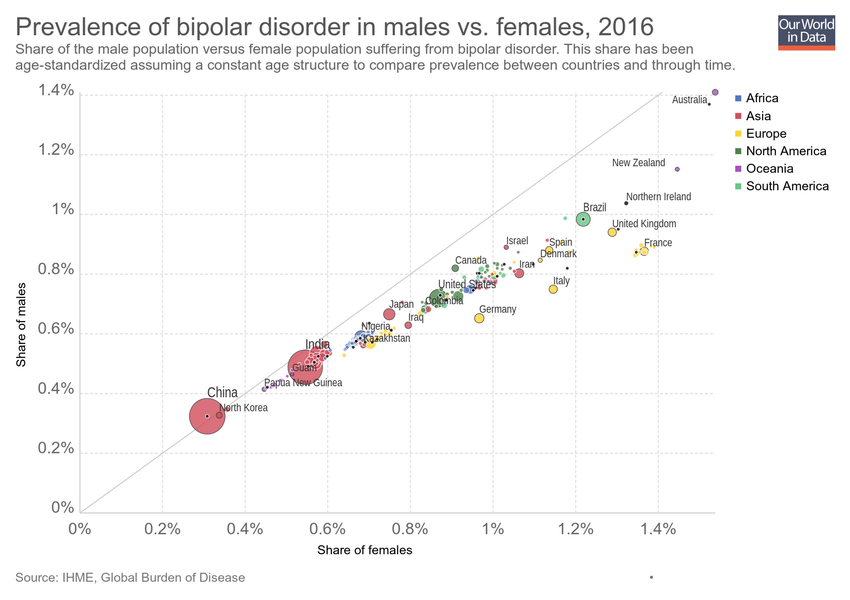
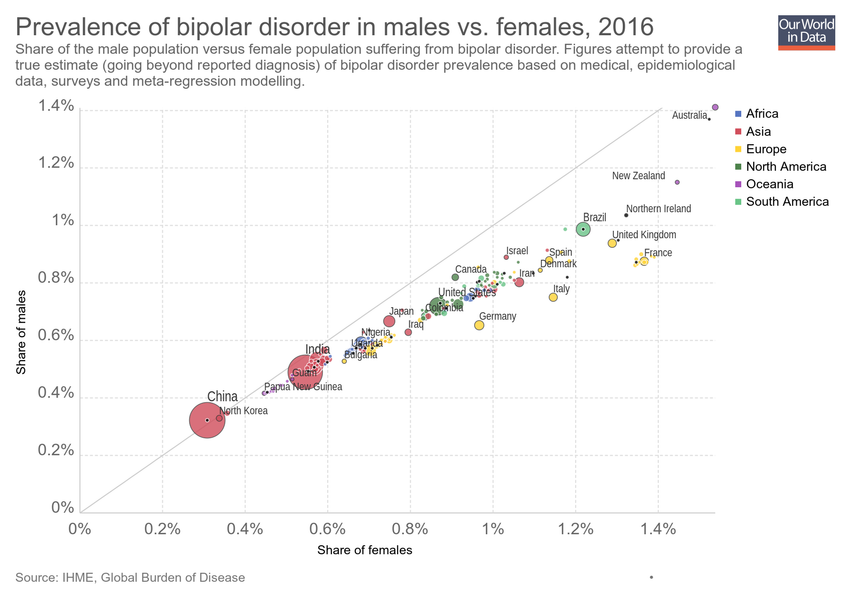
Updating chart prevalence-of-bipolar-disorder-in-males-vs-females

diff --git a/grapher/number-of-people-with-bipolar-disorder.html b/grapher/number-of-people-with-bipolar-disorder.html
@@ -1,4 +1,4 @@
-<!doctype html><html><head><meta name="viewport" content="width=device-width, initial-scale=1" /><title>Number of people with bipolar disorder - Our World in Data</title><meta name="description" content="Total number of people suffering from bipolar disorder, desegregated by sex. This is measured across all ages." /><link rel="canonical" href="https://ourworldindata.org/grapher/number-of-people-with-bipolar-disorder" /><meta property="fb:app_id" content="1149943818390250" /><meta property="og:url" content="https://ourworldindata.org/grapher/number-of-people-with-bipolar-disorder" /><meta property="og:title" content="Number of people with bipolar disorder" /><meta property="og:description" content="Total number of people suffering from bipolar disorder, desegregated by sex. This is measured across all ages." /><meta property="og:image" content="https://ourworldindata.org/grapher/exports/number-of-people-with-bipolar-disorder.png?v=1" /><meta property="og:image:width" content="850" /><meta property="og:image:height" content="600" /><meta property="og:site_name" content="Our World in Data" /><meta name="twitter:card" content="summary_large_image" /><meta name="twitter:site" content="@OurWorldInData" /><meta name="twitter:creator" content="@OurWorldInData" /><meta name="twitter:title" content="Number of people with bipolar disorder" /><meta name="twitter:description" content="Total number of people suffering from bipolar disorder, desegregated by sex. This is measured across all ages." /><meta name="twitter:image" content="https://ourworldindata.org/grapher/exports/number-of-people-with-bipolar-disorder.png?v=1" /><style>
+<!doctype html><html><head><meta name="viewport" content="width=device-width, initial-scale=1" /><title>Number of people with bipolar disorder - Our World in Data</title><meta name="description" content="Total number of people suffering from bipolar disorder, desegregated by sex. This is measured across all ages. Figures attempt to provide a true estimate (going beyond reported diagnosis) of the number of people with bipolar disorder based on medical, epidemiological data, surveys and meta-regression modelling." /><link rel="canonical" href="https://ourworldindata.org/grapher/number-of-people-with-bipolar-disorder" /><meta property="fb:app_id" content="1149943818390250" /><meta property="og:url" content="https://ourworldindata.org/grapher/number-of-people-with-bipolar-disorder" /><meta property="og:title" content="Number of people with bipolar disorder" /><meta property="og:description" content="Total number of people suffering from bipolar disorder, desegregated by sex. This is measured across all ages. Figures attempt to provide a true estimate (going beyond reported diagnosis) of the number of people with bipolar disorder based on medical, epidemiological data, surveys and meta-regression modelling." /><meta property="og:image" content="https://ourworldindata.org/grapher/exports/number-of-people-with-bipolar-disorder.png?v=2" /><meta property="og:image:width" content="850" /><meta property="og:image:height" content="600" /><meta property="og:site_name" content="Our World in Data" /><meta name="twitter:card" content="summary_large_image" /><meta name="twitter:site" content="@OurWorldInData" /><meta name="twitter:creator" content="@OurWorldInData" /><meta name="twitter:title" content="Number of people with bipolar disorder" /><meta name="twitter:description" content="Total number of people suffering from bipolar disorder, desegregated by sex. This is measured across all ages. Figures attempt to provide a true estimate (going beyond reported diagnosis) of the number of people with bipolar disorder based on medical, epidemiological data, surveys and meta-regression modelling." /><meta name="twitter:image" content="https://ourworldindata.org/grapher/exports/number-of-people-with-bipolar-disorder.png?v=2" /><style>
         html, body {
             height: 100%;
             margin: 0;
@@ -20,8 +20,8 @@
         }
     </style><noscript><style>
                     figure { display: none !important; }
-                </style></noscript><link rel="stylesheet" href="https://ourworldindata.org/grapher/assets/commons.bundle.ac09ff8f098f0c7be836.css" /><link rel="preload" href="/grapher/data/variables/84570+84571.json?v=1" as="fetch" crossorigin /></head><body class="singleChart"><figure data-grapher-src="/grapher/number-of-people-with-bipolar-disorder"></figure><noscript id="fallback"><img src="/grapher/exports/number-of-people-with-bipolar-disorder.svg" /><p>Interactive visualization requires JavaScript</p></noscript><script src="https://cdn.polyfill.io/v2/polyfill.min.js?features=es6,fetch"></script><script src="https://ourworldindata.org/grapher/assets/commons.bundle.ac09ff8f098f0c7be836.js"></script><script src="https://ourworldindata.org/grapher/assets/charts.bundle.dcf65b68eddaba4c6a58.js"></script><script>
-        var jsonConfig = {"map":{"projection":"World","colorSchemeLabels":[],"colorSchemeValues":[],"defaultProjection":"World","colorSchemeMinValue":0,"customNumericColors":[],"customCategoryColors":{},"customCategoryLabels":{},"customHiddenCategories":{}},"tab":"chart","slug":"number-of-people-with-bipolar-disorder","type":"StackedArea","title":"Number of people with bipolar disorder","xAxis":{"scaleType":"linear"},"yAxis":{"min":0,"scaleType":"linear"},"version":1,"subtitle":"Total number of people suffering from bipolar disorder, desegregated by sex. This is measured across all ages.","hasMapTab":false,"stackMode":"absolute","dimensions":[{"display":{"name":"Males","unit":"number of people"},"property":"y","variableId":84570,"numDecimalPlaces":0},{"display":{"name":"Females","unit":"number of people"},"property":"y","variableId":84571,"numDecimalPlaces":0}],"isAutoSlug":true,"sourceDesc":"IHME, Global Burden of Disease","hasChartTab":true,"isPublished":true,"selectedData":[{"color":"#3360a9","index":0,"entityId":355},{"color":"#ca2628","index":1,"entityId":355}],"addCountryMode":"change-country","id":2183};
+                </style></noscript><link rel="stylesheet" href="https://ourworldindata.org/grapher/assets/commons.bundle.ac09ff8f098f0c7be836.css" /><link rel="preload" href="/grapher/data/variables/84570+84571.json?v=2" as="fetch" crossorigin /></head><body class="singleChart"><figure data-grapher-src="/grapher/number-of-people-with-bipolar-disorder"></figure><noscript id="fallback"><img src="/grapher/exports/number-of-people-with-bipolar-disorder.svg" /><p>Interactive visualization requires JavaScript</p></noscript><script src="https://cdn.polyfill.io/v2/polyfill.min.js?features=es6,fetch"></script><script src="https://ourworldindata.org/grapher/assets/commons.bundle.ac09ff8f098f0c7be836.js"></script><script src="https://ourworldindata.org/grapher/assets/charts.bundle.dcf65b68eddaba4c6a58.js"></script><script>
+        var jsonConfig = {"id":2183,"map":{"projection":"World","colorSchemeLabels":[],"colorSchemeValues":[],"colorSchemeMinValue":0,"customNumericColors":[],"customCategoryColors":{},"customCategoryLabels":{},"customHiddenCategories":{}},"tab":"chart","slug":"number-of-people-with-bipolar-disorder","type":"StackedArea","title":"Number of people with bipolar disorder","xAxis":{"scaleType":"linear"},"yAxis":{"min":0,"scaleType":"linear"},"version":2,"subtitle":"Total number of people suffering from bipolar disorder, desegregated by sex. This is measured across all ages. Figures attempt to provide a true estimate (going beyond reported diagnosis) of the number of people with bipolar disorder based on medical, epidemiological data, surveys and meta-regression modelling.","hasMapTab":false,"stackMode":"absolute","dimensions":[{"display":{"name":"Males","unit":"number of people"},"property":"y","variableId":84570},{"display":{"name":"Females","unit":"number of people"},"property":"y","variableId":84571}],"sourceDesc":"IHME, Global Burden of Disease","hasChartTab":true,"isPublished":true,"selectedData":[{"color":"#3360a9","index":0,"entityId":355},{"color":"#ca2628","index":1,"entityId":355}],"addCountryMode":"change-country"};
         var figure = document.getElementsByTagName("figure")[0];
         try {
             window.App = {};
